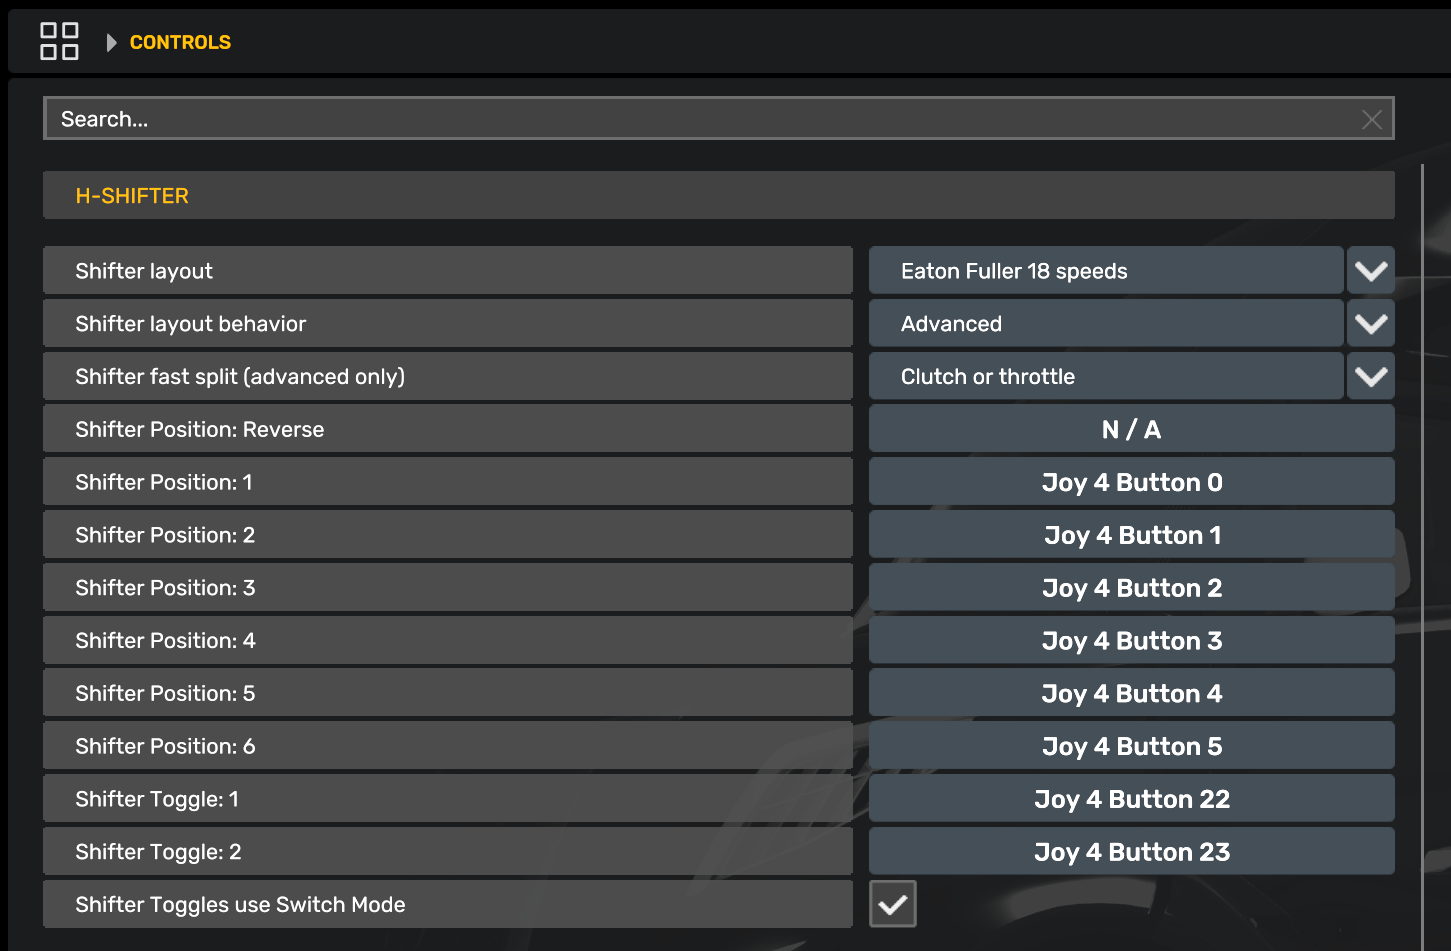
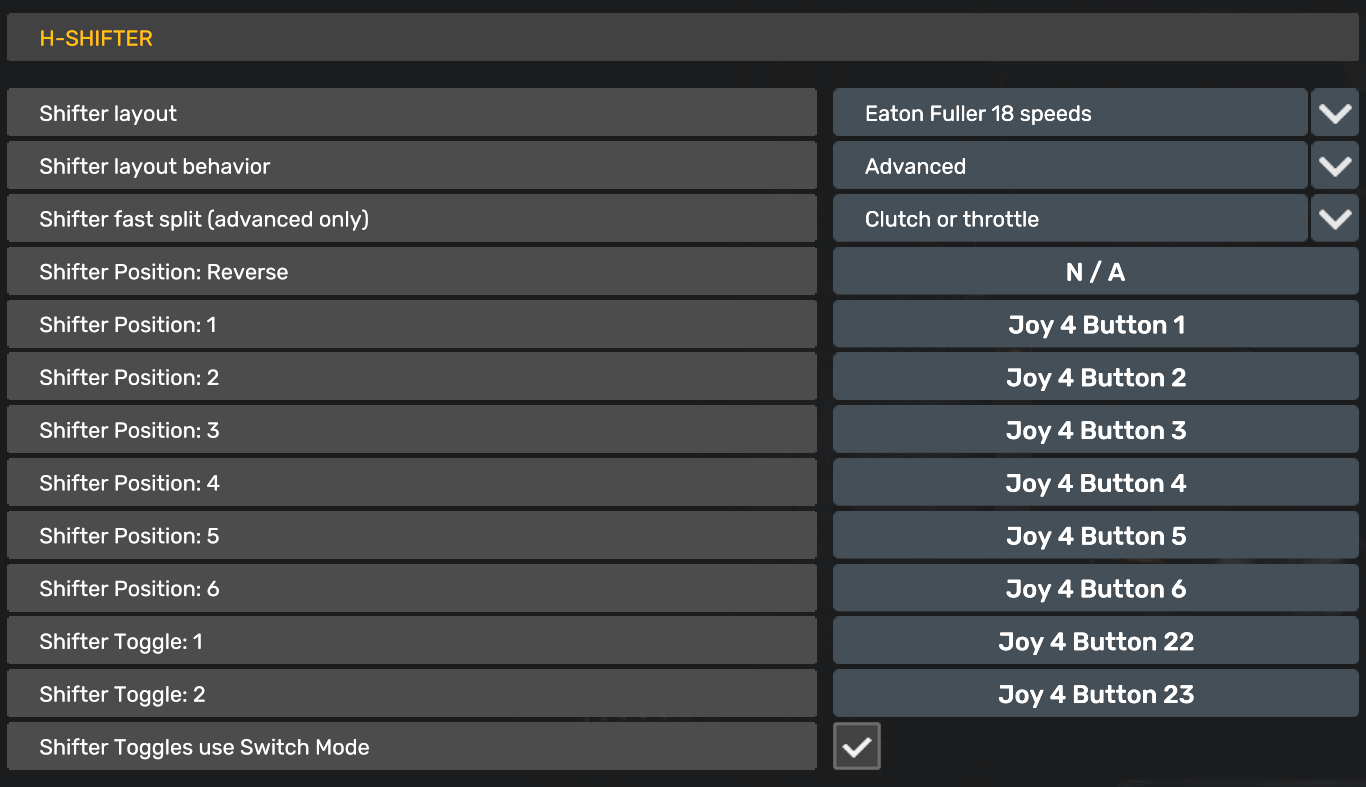
Doc updates

diff --git a/docs/heavytruck.md b/docs/heavytruck.md
@@ -86,10 +86,10 @@ Start the heavy truck mode, then set these values in the "Controls" menu:
 ![ATS vJoy](images/ats-vjoy.png) 
 * Set `Transmission` to `H-Shifter`
 * Set `Shifter layout behavior` to `Advanced`
-* Set `Shifter Positions` 1-6 to the vJoy Device buttons 0-5, corresponding to the shifter slots
+* Set `Shifter Positions` R-6 to the vJoy Device buttons 0-6, corresponding to the shifter slots
     * Simply walk the shifter through the slots to bind each gear while Bonus FFB is running, as you would a hardware shifter.
+    * Use an R+6 slot pattern to bind all the buttons. Most other patterns are missing some of the buttons.
     * If you have trouble binding buttons while in heavy truck mode, bind them using [H-shifter mode](hshifter.md) instead. The same button numbers are used by both modes.
-    * Ignore the `Reverse` position, it's not used when the `Shifter layout` matches a real transmission
 * Set the `Shifter layout` to match the transmission of your truck,  e.g., Eaton-Fuller 18 speed. In Bonus FFB, choose the matching slot pattern in the slot pattern settings tab.
     * ⚠ Remember to change this setting when you change trucks or transmissions!
 
@@ -147,8 +147,10 @@ These settings affect gameplay mechanics by changing how device inputs are trans
 - **<span id="max-rpm-delta">Float shift rev match range:</span>** Changes the allowable RPM delta range for float shifts. A larger value permits a greater mismatch between the engine and transmission RPMs, making float shifting easier and more permissive. A smaller value makes float shifting more strict and challenging.
 - **Enable throttle-on shifting:** Enables [throttle-on shifting](#throttle-on-shifting), which requires mapping vJoy as your pedal inputs in the game controls. Allows you to change gears while the throttle is applied, which is not otherwise allowed by the game.
 
-# Troubleshooting and common problems
+## Troubleshooting
 
 - **While in game, the stick is pushed out of gear when I press the throttle pedal.**
-    - The gear in-game does not match the gear as computed by Bonus FFB. Try toggling the range and splitter switches a few times&mdash;ATS/ETS2 will reset the range and splitter whenever the game loses focus, so you need to do this any time you `Alt+Tab` out of the game.
+    - This happens when the gear in-game does not match the target gear computed by Bonus FFB.
+    - Try toggling the range and splitter switches a few times
+        - ATS/ETS2 resets the range and splitter whenever the game loses focus, so you need to do this any time you `Alt+Tab` out of the game.
     - If that does not help, ensure the [telemetry plugin is correctly installed](setup-guide.md#3-install-telemetry-plugins).
